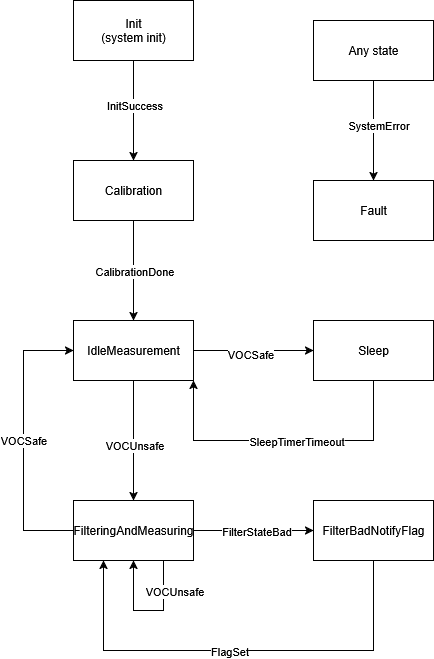
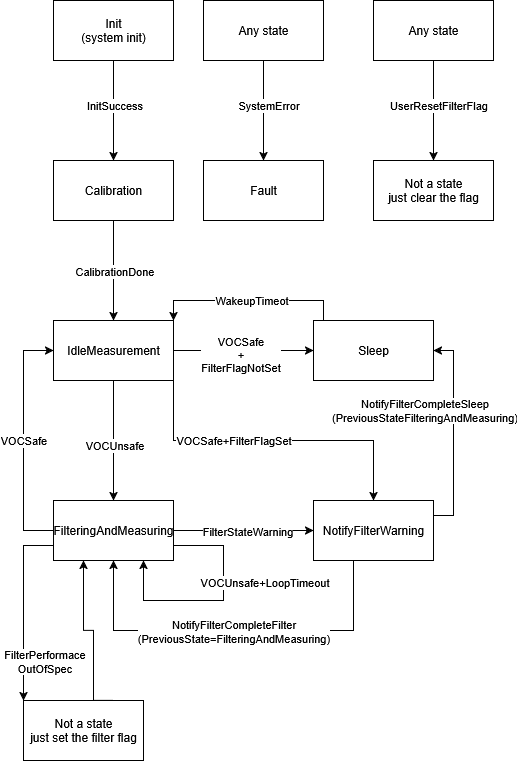
wip: add voc threshold values. update state machine and fix aht functio names

diff --git a/Core/Src/system_main/state_machine_main.c b/Core/Src/system_main/state_machine_main.c
@@ -11,7 +11,7 @@ void StateMachineInit(void) {
 void StateFunctionInit(void) {
     bool ret = false;
     stateMachine.currentState = INIT_SYSTEM;
-    if(InitVocSystem /*&& init_display_system*/) {
+    if(InitVocSystem() /*&& init_display_system()*/) {
         ret = true;
     }
     if(ret) {
@@ -33,8 +33,21 @@ void StateFunctionCalibration(void) {
 
 void StateFunctionIdleMeasurement(void) {
     stateMachine.currentState = IDLE_MEASUREMENT;
-    // Start idle measurement process
-    StartIdleMeasurement();
+    uint8_t measurement_ret = RunVocMeasurement();
+    if(measurement_ret < 5) {
+        if(calculated_voc_intake < PROJECT_CONFIG_VOC_SAFE_THRESHOLD && calculated_voc_exaust < PROJECT_CONFIG_VOC_SAFE_THRESHOLD) {
+            // VOC levels are safe
+            global_air_quality_safe = true;
+            HandleEvent(VOC_SAFE_EVENT);
+        } else {
+            // VOC levels are unsafe
+            global_air_quality_safe = false;
+            HandleEvent(VOC_UNSAFE_EVENT);
+        }
+    } else {
+        // Measurement failed
+        HandleEvent(SYSTEM_ERROR_EVENT);
+    }
 }
 
 void StateFunctionSleep(void) {
@@ -56,7 +69,7 @@ void StateFunctionFault(void) {
 }
 
 void StateFunctionFilterError(void){
-    stateMachine.currentState = FILTER_ERROR;
+    stateMachine.currentState = NOTIFY_FILTER;
     // Handle filter error state
     HandleFilterError();
 }
@@ -74,19 +87,19 @@ void HandleEvent(kSystemEvent event) {
             StateFunctionIdleMeasurement();
             break;
         case VOC_SAFE_EVENT:
-            // Handle safe VOC levels
+            StateFunctionSleep();
             break;
         case VOC_UNSAFE_EVENT:
-            // Handle unsafe VOC levels
+            StateFunctionFilterAndMeasure();
             break;
         case SLEEP_TIMEOUT_EVENT:
-            // Handle sleep timeout event
+            StateFunctionIdleMeasurement();
             break;
         case FILTER_WARNING_EVENT:
             // Handle filter warning event
             break;
-        case FILTER_ERROR_EVENT:
-            // Handle filter error event
+        case NOTIFY_FILTER_COMPLETE:
+            // Handle filter replacement notification
             break;
         default:
             // Handle unknown events

diff --git a/Core/Inc/project_config.h b/Core/Inc/project_config.h
@@ -14,4 +14,20 @@
 
 #define DEBUG_LEVEL 3 // Set the debug level (0-3)
 
+/**
+ * @brief Safe VOC threshold based on VOC sensor readings and calulations from sensirion_gas_index_algorithm
+ * is nicely exlplained and represented here: https://sensirion.com/media/documents/02232963/6294E043/Info_Note_VOC_Index.pdf
+ * 
+ * As per official Sensirion documentation, the VOC index values are categorized as follows:
+ * 0 - 100: Very Low (Great air quality and within typical indoor levels)
+ * 100-150: Low (Acceptable air quality)
+ * 150-250: Moderate (Unacceptable air quality treshold, at this point low rpm fan should kick in to increase air circulation)
+ * 250-400: High (Poor air quality, high rpm fan should be activated to increase air circulation)
+ * 400+: Very High (Very poor air quality, maximum fan speed should be activated, and alert user to take action)
+ */
+#define PROJECT_CONFIG_VOC_SAFE_THRESHOLD 150 // Safe VOC threshold based on VOC index values
+#define PROJECT_CONFIG_VOC_MODERATE_THRESHOLD 250 // Moderate VOC threshold based on VOC index values
+#define PROJECT_CONFIG_VOC_HIGH_THRESHOLD 400 // High VOC threshold based on VOC index values
+#define PROJECT_CONFIG_FILTER_REPLACEMENT_DAYS 30 // Days after which filter replacement is recommended
+#define PROJECT_CONFIG_FILTER_WARNING_VOC_DELTA 100 // VOC delta threshold to trigger filter warning (TODO: Adjust based on testing)
 #endif /* __PROJECT_CONFIG_H__ */

diff --git a/Core/Inc/system_main/state_machine_main.h b/Core/Inc/system_main/state_machine_main.h
@@ -19,7 +19,7 @@ typedef enum {
     SLEEP,
     FILTER_AND_MEASURE,
     FAULT,
-    FILTER_ERROR
+    NOTIFY_FILTER
 } kSystemFSMStates;
 
 /*
@@ -40,8 +40,8 @@ typedef enum {
     SLEEP_TIMEOUT_EVENT = 5,
     /* Filter VOC scrubbing low or filter replacement timeout */
     FILTER_WARNING_EVENT = 6,
-    /* Filter VOC scrubbing below threshold or fan failure */
-    FILTER_ERROR_EVENT = 7
+    /* Notification for filter replacement done */
+    NOTIFY_FILTER_COMPLETE = 7
 } kSystemEvent;
 
 typedef struct{
@@ -49,6 +49,8 @@ typedef struct{
     kSystemEvent previousState;
 } SystemStateMachine;
 
+
+bool FilterWarningActive = false;
 
 /**
  * Initialize the state machine, starting without a defined state and goes to INIT_STATE

diff --git a/Core/Src/temp_and_hum_sens/temp_and_hum_sens.c b/Core/Src/temp_and_hum_sens/temp_and_hum_sens.c
@@ -6,12 +6,12 @@ uint32_t sensor_humidity_percent;
 bool InitTempAndHumSensor() {
     bool hardware_initialized = true;
     printf("Starting temperature and humidity sensor...\n\n");
-    if (!aht10_Init()) {
+    if (!AHT10Init()) {
         printf("AHT10 initialization failed.\n");
         hardware_initialized = false;
     } else {
         printf("Temperature and humidity sensor initialized successfully.\n\n");
-        if(!aht10_StartMeasurement()) {
+        if(!AHT10StartMeasurement()) {
             printf("Temperature and humidity sensor start measurement failed.\n");
             hardware_initialized = false;
         } else {

diff --git a/Libs/Src/aht10/aht10.c b/Libs/Src/aht10/aht10.c
@@ -53,7 +53,7 @@ bool AHT10ReadTemperatureAndHumidity(int32_t *temperature, uint32_t *humidity) {
     if (temperature == NULL || humidity == NULL) {
         return false; // Invalid pointers
     }
-    if(!aht10_StartMeasurement()) {
+    if(!AHT10StartMeasurement()) {
         return false; // Failed to start measurement
     }
     uint8_t data[6]; // Buffer to hold the received data

diff --git a/Core/Src/voc_handler/voc_handler.c b/Core/Src/voc_handler/voc_handler.c
@@ -16,6 +16,8 @@ bool sgp40_intake_initialized;
 bool sgp40_exaust_initialized;
 bool hardware_initialized;
 
+bool global_air_quality_safe = true;
+
 GasIndexAlgorithmParams gas_index_algorithm_intake_params;
 GasIndexAlgorithmParams gas_index_algorithm_exaust_params;
 
